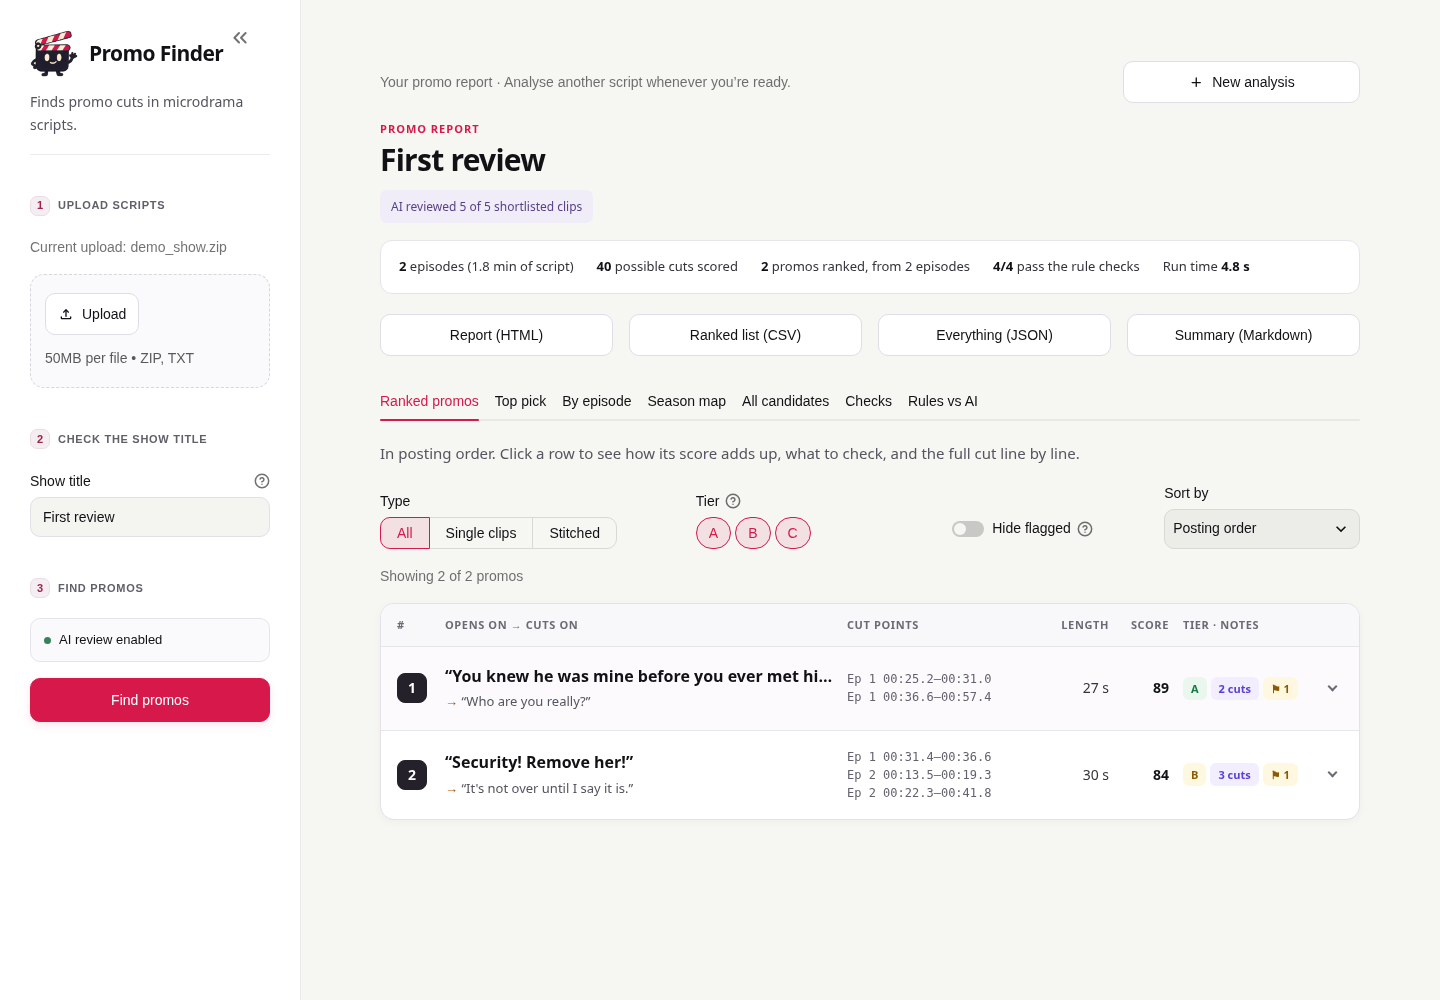
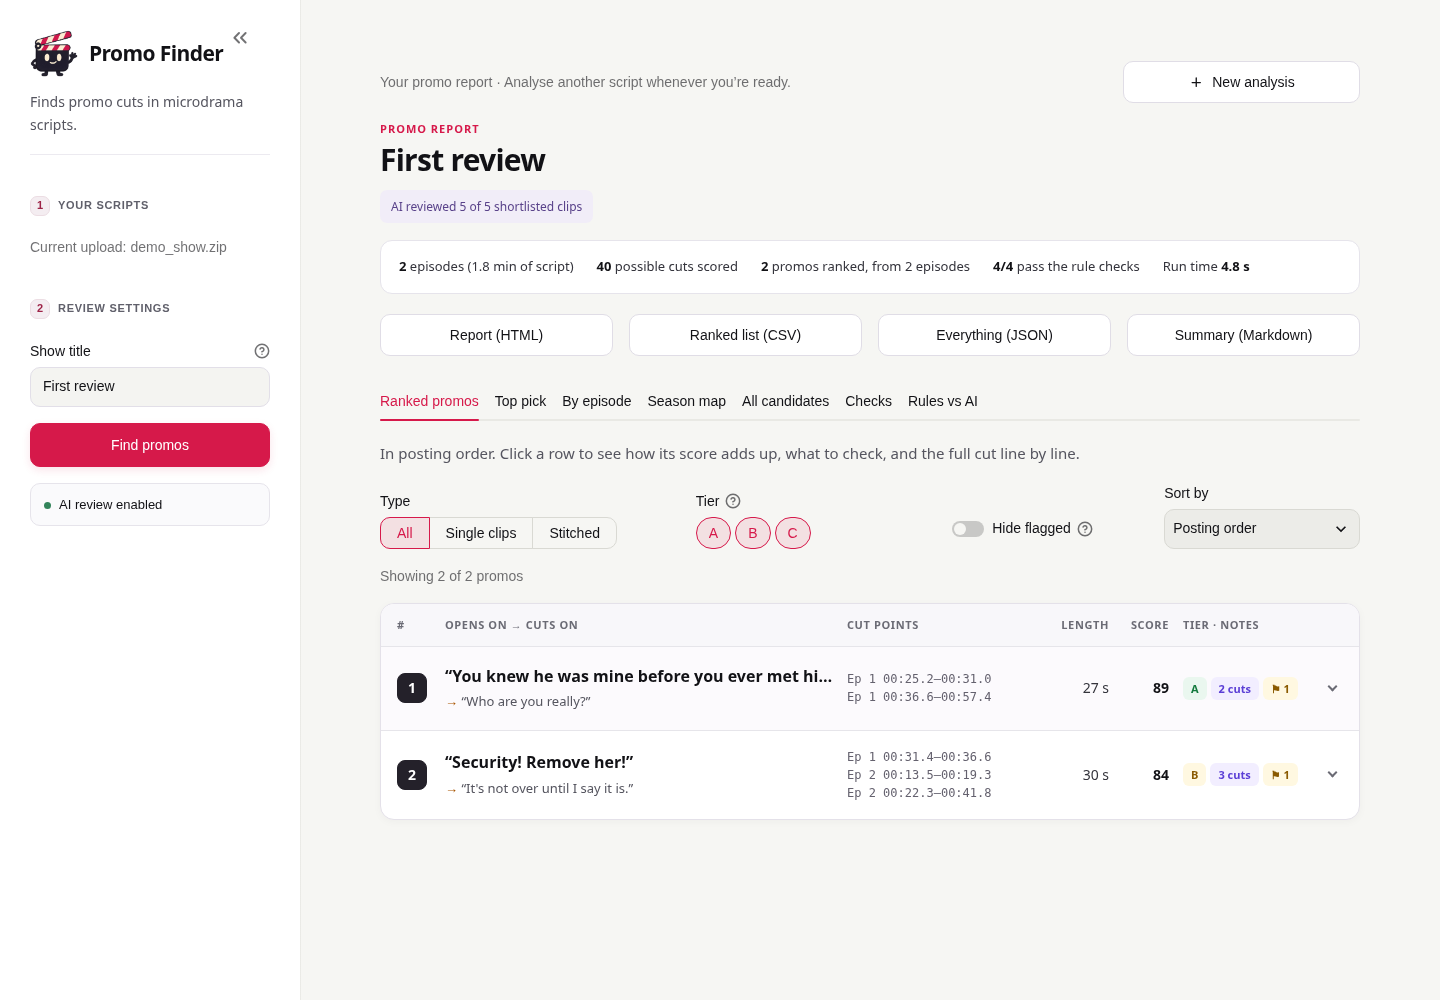
Keep one central uploader and remove duplicated start-page controls

diff --git a/tests/test_usage.py b/tests/test_usage.py
@@ -35,7 +35,7 @@ def test_conversation_model_uses_its_supported_endpoint():
 
 
 @pytest.mark.parametrize('configured', [False, True])
-def test_sidebar_contains_only_upload_title_and_find_action(monkeypatch, configured):
+def test_start_page_has_one_central_upload_and_no_duplicate_sidebar_actions(monkeypatch, configured):
     clean_env(monkeypatch)
     monkeypatch.setattr('promo_finder.llm.requests.post', lambda *a, **k: pytest.fail('opening the app must not call AI'))
     app = AppTest.from_file(str(ROOT / 'app.py'), default_timeout=20)
@@ -43,11 +43,11 @@ def test_sidebar_contains_only_upload_title_and_find_action(monkeypatch, configu
         app.secrets['SARVAM_API_KEY'] = KEY
     app.run()
     assert not app.exception
-    assert [b.label for b in app.sidebar.button] == ['Find promos']
-    assert [e.label for e in app.sidebar.text_input] == ['Show title']
-    assert len(app.get('file_uploader')) == 2  # main workspace and sidebar share the upload
+    assert not app.sidebar.button and not app.sidebar.text_input
+    assert len(app.get('file_uploader')) == 1
+    assert not app.sidebar.get('file_uploader')
     assert not app.sidebar.expander and not app.sidebar.number_input and not app.sidebar.selectbox
-    assert app.sidebar.button[0].disabled
+    assert app.button(key='find_home').disabled
     assert not app.get('download_button')
 
 
@@ -61,7 +61,7 @@ def test_uploaded_review_and_rerenders_do_not_repeat_api_calls(monkeypatch):
     app.secrets['LLM_BASE_URL'] = 'https://api.sarvam.ai/v2'
     app.run()
     app.get('file_uploader')[0].upload('demo.zip', DEMO.read_bytes(), 'application/zip').run()
-    app.sidebar.button[0].click().run()
+    app.button(key='find_home').click().run()
     assert not app.exception and sent
     assert app.session_state['result'].stats['ai']['judged'] > 0
     assert app.get('download_button')
@@ -69,6 +69,12 @@ def test_uploaded_review_and_rerenders_do_not_repeat_api_calls(monkeypatch):
     app.run()
     assert not app.exception and len(sent) == request_count
     assert [b.label for b in app.sidebar.button] == ['Find promos']
+    assert not app.get('file_uploader')  # New analysis is the only route to another upload
+    app.text_input(key='show_title').set_value('Retitled review').run()
+    assert len(sent) == request_count
+    app.sidebar.button[0].click().run()
+    assert not app.exception and app.session_state['result'].title == 'Retitled review'
+    assert len(sent) > request_count
 
 
 def test_startup_configuration_error_is_handled_without_a_redacted_traceback(monkeypatch):
@@ -80,7 +86,7 @@ def test_startup_configuration_error_is_handled_without_a_redacted_traceback(mon
     app.secrets['SARVAM_API_KEY'] = KEY
     app.run()
     app.get('file_uploader')[0].upload('demo.zip', DEMO.read_bytes(), 'application/zip').run()
-    app.sidebar.button[0].click().run()
+    app.button(key='find_home').click().run()
     assert not app.exception
     assert any('currently unavailable' in e.value for e in app.error)
     assert all(KEY not in e.value for e in app.error)
@@ -95,7 +101,7 @@ def test_failed_ai_is_not_presented_as_a_successful_report(monkeypatch, status):
     app.secrets['SARVAM_API_KEY'] = KEY
     app.run()
     app.get('file_uploader')[0].upload('demo.zip', DEMO.read_bytes(), 'application/zip').run()
-    app.sidebar.button[0].click().run()
+    app.button(key='find_home').click().run()
     assert not app.exception and len(sent) == 1
     assert app.session_state['result'].model == 'rules'
     assert app.error and not app.get('download_button')
@@ -107,7 +113,7 @@ def test_failed_ai_is_not_presented_as_a_successful_report(monkeypatch, status):
     assert all(KEY not in e.value for e in app.error)
 
 
-def test_central_upload_and_title_are_synced_without_calling_ai(monkeypatch):
+def test_central_upload_and_title_do_not_call_ai(monkeypatch):
     clean_env(monkeypatch)
     monkeypatch.setattr('promo_finder.llm.requests.post', lambda *a, **k: pytest.fail('uploading must not call AI'))
     app = AppTest.from_file(str(ROOT / 'app.py'), default_timeout=20)
@@ -116,11 +122,11 @@ def test_central_upload_and_title_are_synced_without_calling_ai(monkeypatch):
     central = next(w for w in app.get('file_uploader') if w.key.startswith('home_files_'))
     central.upload('My Show-scripts.zip', DEMO.read_bytes(), 'application/zip').run()
     assert not app.exception
-    assert app.text_input(key='show_title').value == 'The Maid Was the Heiress'
+    assert app.session_state['show_title'] == 'The Maid Was the Heiress'
     assert app.text_input(key='home_title').value == 'The Maid Was the Heiress'
-    assert not app.button(key='find_home').disabled and not app.sidebar.button[0].disabled
+    assert not app.button(key='find_home').disabled and not app.sidebar.button
     app.text_input(key='home_title').set_value('Corrected show').run()
-    assert app.text_input(key='show_title').value == 'Corrected show'
+    assert app.session_state['show_title'] == 'Corrected show'
     assert 'result' not in app.session_state
 
 
@@ -143,7 +149,7 @@ def test_new_analysis_clears_report_upload_and_can_review_another_file(monkeypat
     for name in ('result', 'compare', 'checks'):
         assert name not in app.session_state
     assert app.session_state['source_files'] == []
-    assert app.text_input(key='show_title').value == app.text_input(key='home_title').value == ''
+    assert app.session_state['show_title'] == app.text_input(key='home_title').value == ''
     assert app.button(key='find_home').disabled and not app.get('download_button')
     assert len(sent) == requests_before
     central = next(w for w in app.get('file_uploader') if w.key.startswith('home_files_'))
@@ -154,7 +160,7 @@ def test_new_analysis_clears_report_upload_and_can_review_another_file(monkeypat
     assert len(sent) > requests_before
 
 
-def test_replacing_scripts_from_sidebar_invalidates_previous_report(monkeypatch):
+def test_removing_the_central_upload_resets_title_and_disables_review(monkeypatch):
     clean_env(monkeypatch)
     sent = []
     monkeypatch.setattr('promo_finder.llm.requests.post', lambda *a, **k: sent.append(1) or response())
@@ -164,10 +170,10 @@ def test_replacing_scripts_from_sidebar_invalidates_previous_report(monkeypatch)
     app.run()
     central = next(w for w in app.get('file_uploader') if w.key.startswith('home_files_'))
     central.upload('First-scripts.zip', DEMO.read_bytes(), 'application/zip').run()
-    app.button(key='find_home').click().run()
-    requests_before = len(sent)
-    app.get('file_uploader')[0].upload('Replacement-scripts.zip', DEMO.read_bytes(), 'application/zip').run()
+    assert not app.button(key='find_home').disabled
+    app.get('file_uploader')[0].clear().run()
     assert not app.exception and 'result' not in app.session_state
-    assert app.text_input(key='home_title').value == 'The Maid Was the Heiress'
-    assert [f.name for f in app.session_state['source_files']] == ['Replacement-scripts.zip']
-    assert not app.get('download_button') and len(sent) == requests_before
+    assert app.text_input(key='home_title').value == ''
+    assert app.session_state['source_files'] == []
+    assert app.button(key='find_home').disabled
+    assert not app.get('download_button') and not sent

diff --git a/app.py b/app.py
@@ -33,7 +33,7 @@ header[data-testid="stHeader"] button{pointer-events:auto}
 [data-testid="stExpandSidebarButton"]{width:auto!important;height:auto!important;padding:9px 16px 9px 12px!important;border-radius:999px!important;background:#d6194a!important;box-shadow:0 2px 10px rgba(214,25,74,.35)!important;gap:6px!important}
 [data-testid="stExpandSidebarButton"]:hover{background:#b3133d!important}
 [data-testid="stExpandSidebarButton"] span{color:#fff!important}
-[data-testid="stExpandSidebarButton"]::after{content:"Upload scripts";font:600 14px/1 Inter,sans-serif;color:#fff;white-space:nowrap}
+[data-testid="stExpandSidebarButton"]::after{content:"Project";font:600 14px/1 Inter,sans-serif;color:#fff;white-space:nowrap}
 @media (max-width:860px){.block-container{padding-top:4.6rem!important}}
 .block-container{max-width:1200px;padding-top:2.2rem;padding-bottom:5rem}
 section[data-testid="stSidebar"]>div{padding-top:.4rem}
@@ -170,14 +170,12 @@ def clear_report() -> None:
         st.session_state.pop(name, None)
 
 
-def select_uploads(origin: str, widget_key: str) -> None:
+def select_uploads(widget_key: str) -> None:
     clear_report()
     st.session_state.source_files = list(st.session_state.get(widget_key) or [])
     suggested = guess_title(st.session_state.source_files)
     st.session_state.show_title = suggested
     st.session_state.home_title = suggested
-    other = "home" if origin == "sidebar" else "sidebar"
-    st.session_state[f"{other}_upload_version"] = st.session_state.get(f"{other}_upload_version", 0) + 1
 
 
 def sync_title(source: str, target: str) -> None:
@@ -189,32 +187,31 @@ def new_analysis() -> None:
     st.session_state.source_files = []
     st.session_state.show_title = ""
     st.session_state.home_title = ""
-    for origin in ("home", "sidebar"):
-        st.session_state[f"{origin}_upload_version"] = st.session_state.get(f"{origin}_upload_version", 0) + 1
+    st.session_state.home_upload_version = st.session_state.get("home_upload_version", 0) + 1
 
 
 # ---------------------------------------------------------------- sidebar
 with st.sidebar:
     st.html(f'<div class="pf pf-sbbrand" style="margin:0"><div class="pf-brand">{mascot("pf-mascot-brand")}<span>Promo Finder</span></div><p style="font-size:14px;color:var(--mute);margin-top:10px">'
             'Finds promo cuts in microdrama scripts.</p></div>')
-    sb_head("1", "Upload scripts")
+    sb_head("1", "Your scripts")
     files = list(st.session_state.get("source_files", []))
     if files:
         st.caption("Current upload: " + ", ".join(f.name for f in files))
-    sidebar_upload_key = f'sidebar_files_{st.session_state.get("sidebar_upload_version", 0)}'
-    st.file_uploader("Episode scripts", type=["zip", "txt"], accept_multiple_files=True, label_visibility="collapsed",
-                             key=sidebar_upload_key, on_change=select_uploads, args=("sidebar", sidebar_upload_key),
-                             help="A .zip of the season, or the episode .txt files. Timestamped screenplays, one per episode.")
-    sb_head("2", "Check the show title")
-    title = st.text_input("Show title", key="show_title", placeholder="e.g. The Maid Was the Heiress",
+    else:
+        st.caption("Add your ZIP or TXT scripts in the main workspace to get started.")
+    go = False
+    title = st.session_state.get("show_title", "")
+    if "result" in st.session_state:
+        sb_head("2", "Review settings")
+        title = st.text_input("Show title", key="show_title", placeholder="e.g. The Maid Was the Heiress",
                           on_change=sync_title, args=("show_title", "home_title"),
                           help="The title tells the tool what the show promises (for example a secret Duke), so promos that sell it rank higher.")
-    sb_head("3", "Find promos")
+        go = st.button("Find promos", type="primary", width="stretch", disabled=not files or not config.configured)
     if config.configured:
         st.html('<div class="pf-service"><span class="dot"></span>AI review enabled</div>')
     else:
         st.info("AI review is unavailable. Contact the app owner.")
-    go = st.button("Find promos", type="primary", width="stretch", disabled=not files or not config.configured)
 
 # ---------------------------------------------------------------- first visit
 if "result" not in st.session_state and not go:
@@ -228,7 +225,7 @@ hooks and cliffhangers ready for an editor to review.</p></div>""" + mascot("pf-
                 '<p class="pf-home-hint">Choose a season ZIP or individual episode TXT files. You can also drag them into the upload area.</p></div>')
         home_upload_key = f'home_files_{st.session_state.get("home_upload_version", 0)}'
         st.file_uploader("Upload scripts", type=["zip", "txt"], accept_multiple_files=True,
-                         key=home_upload_key, on_change=select_uploads, args=("home", home_upload_key),
+                         key=home_upload_key, on_change=select_uploads, args=(home_upload_key,),
                          label_visibility="collapsed", help="Timestamped screenplays. ZIP and TXT files, up to 50 MB per file.")
         if files:
             st.caption("Ready: " + ", ".join(f.name for f in files))

diff --git a/tests/test_progress.py b/tests/test_progress.py
@@ -74,7 +74,7 @@ def test_timeout_becomes_a_clean_error_after_one_request(monkeypatch):
     app.secrets['SARVAM_API_KEY'] = KEY
     app.run()
     app.get('file_uploader')[0].upload('demo.zip', (ROOT / 'samples/demo_show.zip').read_bytes(), 'application/zip').run()
-    app.sidebar.button[0].click().run()
+    app.button(key='find_home').click().run()
     assert not app.exception and len(sent) == 1
     assert any('took too long' in e.value for e in app.error)
     assert not app.get('status') and not app.get('download_button')

diff --git a/tests/test_edge_cases.py b/tests/test_edge_cases.py
@@ -287,5 +287,5 @@ def test_app_loads_with_a_clear_empty_state():
     app = Path(__file__).resolve().parents[1] / "app.py"
     at = AppTest.from_file(str(app), default_timeout=60).run()
     assert not at.exception
-    assert [b.label for b in at.sidebar.button] == ["Find promos"]
-    assert at.sidebar.button[0].disabled
+    assert not at.sidebar.button and not at.sidebar.get('file_uploader')
+    assert at.button(key='find_home').disabled

diff --git a/README.md b/README.md
@@ -14,12 +14,13 @@ Built for Kuku's AI Generalist assignment (Problem 1, "Find the Promos").
 
 The web app uses Sarvam automatically: upload scripts, check the title and press **Find promos**.
 The starting page has a working upload area, title field and Find promos button in the main
-workspace. The sidebar offers the same workflow, with the current upload and title kept in sync.
+workspace. This is the only uploader. The sidebar shows the current scripts and service status;
+on a report, it also lets you adjust the title and rerun the review on the same files.
 Choose **New analysis** above any finished or failed report to return to a clean starting page.
-Replacing scripts also clears the previous report; neither action calls the AI service.
+Uploading or resetting scripts never calls the AI service; choose Find promos to start a review.
 There is no provider picker, public API-key field, model name or endpoint field. Configure the
 server once with `SARVAM_API_KEY`; existing Sarvam `LLM_API_KEY` / `LLM_BASE_URL` secrets also work.
-The sidebar contains only uploads, the show title and the primary action. The CLI defaults to
+The sidebar contains analysis context and report settings. The CLI defaults to
 rules and retains other model adapters for reproducible comparisons and interview-time model swaps.
 
 ## Run it
@@ -198,7 +199,7 @@ adapters are CLI-only and are not offered in the public web interface.
 
 ## Editor interface and usage
 
-The sidebar contains upload, show title and Find promos only. It has no balance card, manual
+Uploads happen in the main workspace; the sidebar contains analysis context and report settings. It has no balance card, manual
 balance snapshot, provider/model/key controls, preferences panel, sample button or technical footer.
 The opening screen explains the task without displaying a previous sample as a new result.
 During processing, one compact card shows Read scripts → Find moments → Review clips → Prepare
